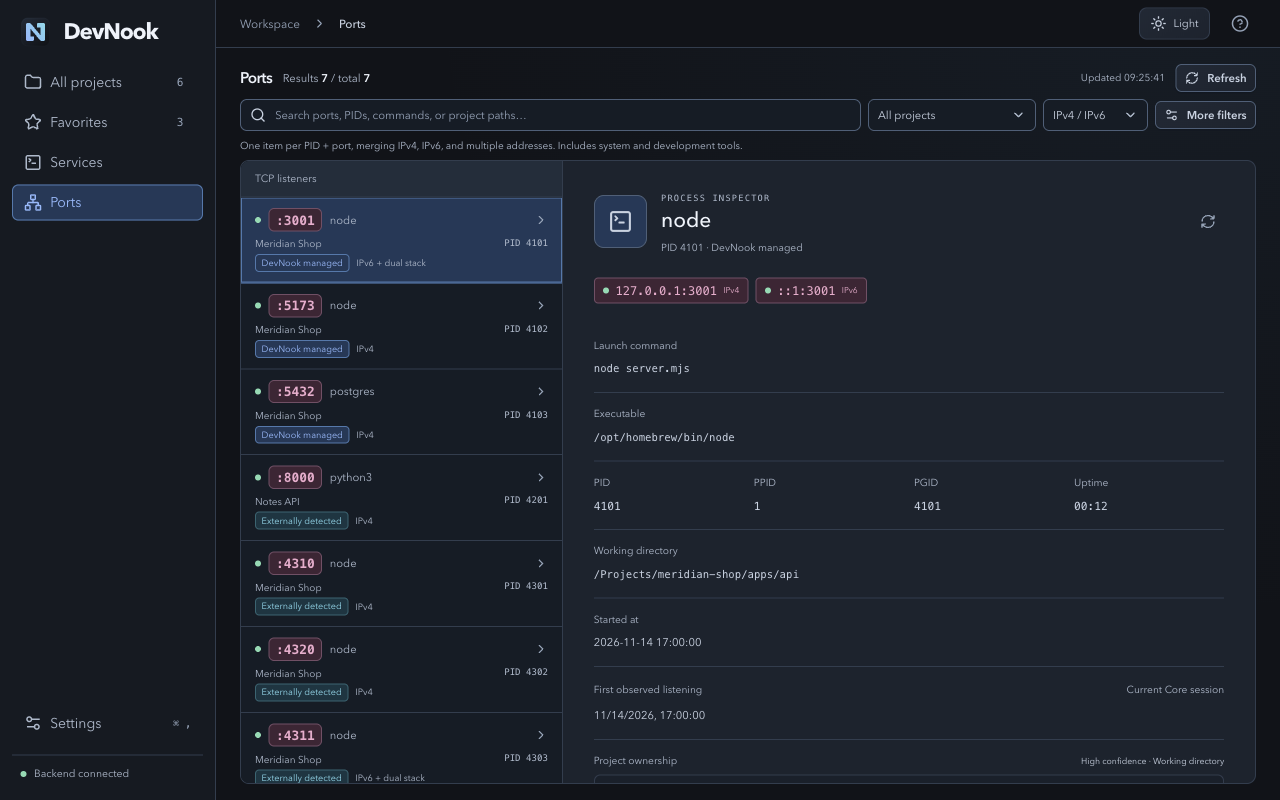
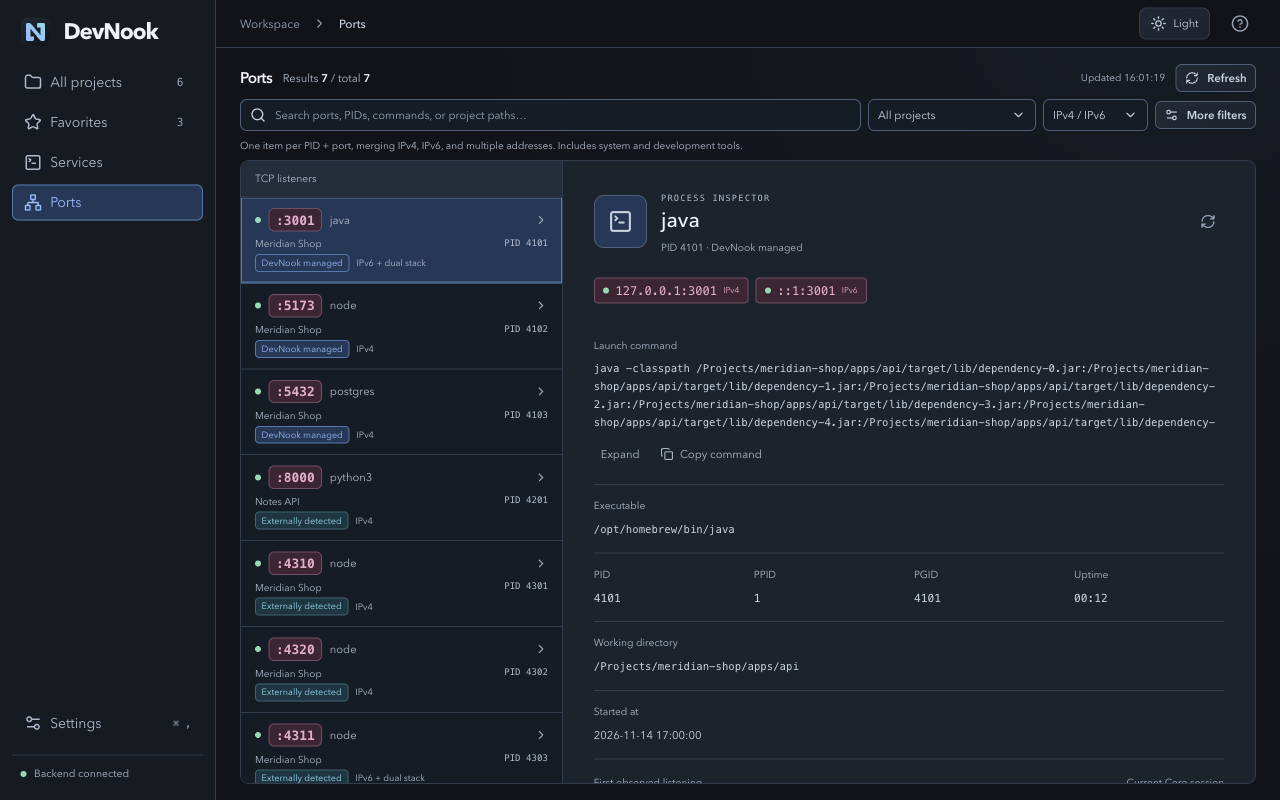
fix: release v0.1.4 with readable process commands

diff --git a/apps/desktop/src/ProcessCommand.tsx b/apps/desktop/src/ProcessCommand.tsx
@@ -1,0 +1,79 @@
+import { useId, useLayoutEffect, useRef, useState } from 'react';
+import { Copy } from 'lucide-react';
+import { t } from './i18n';
+
+export default function ProcessCommand({
+  command,
+  notify,
+  report,
+}: {
+  command: string;
+  notify: (message: string) => void;
+  report: (error: unknown) => void;
+}) {
+  const id = useId();
+  const previewRef = useRef<HTMLDivElement>(null);
+  const codeRef = useRef<HTMLElement>(null);
+  const [expanded, setExpanded] = useState(false);
+  const [overflows, setOverflows] = useState(false);
+
+  useLayoutEffect(() => {
+    const code = codeRef.current;
+    if (!code) return;
+    const measure = () => {
+      const lineHeight = parseFloat(getComputedStyle(code).lineHeight);
+      setOverflows(code.scrollHeight > lineHeight * 4 + 1);
+    };
+    measure();
+    const observer = new ResizeObserver(measure);
+    observer.observe(code);
+    return () => observer.disconnect();
+  }, [command]);
+
+  return (
+    <div className="process-command">
+      <div
+        ref={previewRef}
+        id={id}
+        className={`process-command-preview${expanded && overflows ? ' expanded' : ''}`}
+        tabIndex={expanded && overflows ? 0 : undefined}
+        role="region"
+        aria-label={t('启动命令')}
+      >
+        <code ref={codeRef}>{command}</code>
+      </div>
+      <div className="process-command-actions">
+        {overflows && (
+          <button
+            type="button"
+            className="text-button"
+            aria-expanded={expanded}
+            aria-controls={id}
+            onClick={() => {
+              if (previewRef.current) previewRef.current.scrollTop = 0;
+              setExpanded((value) => !value);
+            }}
+          >
+            {expanded ? t('收起') : t('展开')}
+          </button>
+        )}
+        <button
+          type="button"
+          className="text-button"
+          onClick={async () => {
+            try {
+              if (!navigator.clipboard) throw new Error(t('无法访问剪贴板，请手动选择文字复制。'));
+              await navigator.clipboard.writeText(command);
+              notify(t('命令已复制'));
+            } catch (error) {
+              report(error);
+            }
+          }}
+        >
+          <Copy size={13} aria-hidden="true" />
+          {t('复制命令')}
+        </button>
+      </div>
+    </div>
+  );
+}

diff --git a/apps/desktop/src/App.tsx b/apps/desktop/src/App.tsx
@@ -41,6 +41,7 @@ import WorkspacesPage from './WorkspacesPage';
 import AdvancedIntegrations from './AgentsPage';
 import Select from './Select';
 import { filterPortBindings, portRows, runtimeOptions } from './PortPresentation';
+import ProcessCommand from './ProcessCommand';
 import CategoryPicker from './CategoryPicker';
 import { ProjectBatchBar, ProjectCheckbox } from './ProjectSelection';
 import { useProjectPresentation } from './ProjectPresentation';
@@ -1678,7 +1679,6 @@ function PortsPage({
                 key={`${p.pid}:${p.port}`}
                 className={`port-row ${selected === p.pid ? 'selected' : ''}`}
                 data-color={projectColor(p.project_id)}
-                title={p.command || p.name}
                 onClick={() => void choose(p.pid)}
               >
                 <div className="port-number">
@@ -1779,7 +1779,12 @@ function PortsPage({
                 <div>
                   <dt>{t('启动命令')}</dt>
                   <dd>
-                    <code>{detail.command}</code>
+                    <ProcessCommand
+                      key={detail.fingerprint}
+                      command={detail.command}
+                      notify={notify}
+                      report={report}
+                    />
                   </dd>
                 </div>
                 <div>
@@ -2203,7 +2208,7 @@ function SettingsPage({
         />
         <div>
           <strong>
-            DevNook <span>v0.1.3</span>
+            DevNook <span>v0.1.4</span>
           </strong>
           <p>Your Local Development Workspace</p>
           <p>{t('管理本地项目、服务和端口，支持终端命令与可选的 AI 助手接入。')}</p>

diff --git a/apps/desktop/src/styles.css b/apps/desktop/src/styles.css
@@ -60,6 +60,7 @@ select:focus-visible {
 .service-list:focus-visible,
 .service-log:focus-visible,
 .process-panel:focus-visible,
+.process-command-preview:focus-visible,
 .project-results:focus-visible,
 .port-row:focus-visible {
   outline: 2px solid var(--accent);
@@ -2397,6 +2398,30 @@ main.workbench-page {
 }
 .process-fields dd > code {
   font-size: 0.76rem;
+}
+.process-command-preview {
+  font-size: 0.76rem;
+  line-height: 1.7;
+  max-height: 6.8em;
+  overflow: hidden;
+}
+.process-command-preview.expanded {
+  max-height: min(24rem, 50vh);
+  overflow-y: auto;
+  overscroll-behavior-y: contain;
+}
+.process-command-preview code {
+  display: block;
+  font-size: inherit;
+  line-height: inherit;
+  white-space: pre-wrap;
+  overflow-wrap: anywhere;
+}
+.process-command-actions {
+  display: flex;
+  flex-wrap: wrap;
+  gap: 0.5rem;
+  margin-top: 0.5rem;
 }
 .process-numbers {
   display: grid;

diff --git a/apps/desktop/src/locales/en.ts b/apps/desktop/src/locales/en.ts
@@ -306,6 +306,8 @@ export const english: Record<string, string> = {
   未知进程默认只读: 'Unknown processes are read-only by default',
   刷新进程详情: 'Refresh process details',
   启动命令: 'Launch command',
+  复制命令: 'Copy command',
+  命令已复制: 'Command copied',
   不可访问: 'Unavailable',
   运行时长: 'Uptime',
   工作目录: 'Working directory',

diff --git a/docs/DEVELOPMENT-PLAN.md b/docs/DEVELOPMENT-PLAN.md
@@ -1313,3 +1313,27 @@ Phase 0–2 历史记录保留。当前范围与使用方法见 [PHASE-3.md](PHA
 - v0.1.3 为公开 latest，旧 v0.1.0–v0.1.2 的 3 个 Release 和 12 个原始资产保持。公开下载验证副本核对文件集合后移入系统废纸篓，固定输出目录保留最新双架构 app / DMG / 校验文件；有 lsof 引用的 Debug / current / latest 应用保留，没有自动终止进程。
 - 本轮 web-ui 与 site-preview 均已通过 localhost 正常停止。发布结束前再次核对 Core PID 66122、两份配置版本、当前运行 / 历史及服务 / runner 指纹与发布前一致；未修改 MCP 配置或创建授权。浏览器 TaskSpace 已正常结束；Ego Lite 提示可更新，本轮未升级。
 - 安装包仍为 ad-hoc、未公证；原生窗口 / 菜单交互、Intel / macOS 12 真机未补测。HTTP、浏览器、签名、DMG 与公开资产验证记录保留于 `.tmp/release-v0.1.3-20261116/`，产品不依赖临时目录。三份既有开发故事 / 缘起文档及其记录继续留在本地，本轮未纳入提交。
+
+## 端口悬浮提示与长命令阅读修正（2026-11-16）
+
+- 移除端口列表整行绑定完整启动命令的原生 `title`，避免悬停端口号时被 Java classpath 等长内容遮挡。右侧启动命令使用独立 `ProcessCommand` 展示，默认最多四行；仅实际溢出时提供展开 / 收起。展开区最多 24rem 或半个视口高度，内部滚动并支持键盘焦点；收起回到命令开头，切换进程恢复折叠，窗口缩放重新判断是否溢出。
+- 复制始终使用完整原始命令，保留换行和字面文本，成功沿用全局提示；剪贴板不可用或写入失败沿用错误反馈。新增中英复制文案，沿用字体、语义主题色和焦点样式，没有依赖、Core、协议、数据库或服务控制改动。
+- 实际验证：`pnpm check`、`pnpm test:ui`（38 项）、`pnpm build`、`pnpm format:check`、`git diff --check` 通过。ego-browser 使用真实 React 与隔离内存替身，完成中英 × 浅暗 × 1280×800 / 760×560 共 8 个场景；9,466 字符 Java 命令的默认高度约 72.35px（四行），展开高度分别为 336 / 280px。确认列表无命令 title、复制内容完整、展开 / 收起与键盘操作、收起后滚动归零、短命令无展开入口、切换进程重置，均无整页或命令区域横向溢出及浏览器运行错误；已回读浅暗实际截图。
+- 额外验证剪贴板缺失 / 拒绝写入的错误反馈、760 / 1600 宽度间的溢出判断更新、无断点长字符串、多行及含 `<script>` 字面的命令展示与完整复制。浏览器验收过程的 fixture 注入、匹配条件和尺寸测试数据经回读实际状态后修正，最终 8 场景和边界验收均通过；产品未加入演示数据。详细脚本、截图与结果位于忽略目录 `.tmp/port-command-20261116/`，不作为运行依赖。
+- 浏览器 TaskSpace 已正常结束，本轮临时 web-ui 已通过 localhost 停止。未连接真实 Core 或操作用户项目 / 服务，保留原有开发记录与未跟踪草稿。未重打包或安装原生应用，macOS WebView 未实测；Rust 代码未改，未重跑 Rust 套件。Ego Lite 提示有可用更新，本轮未升级。未提交、推送或发布。
+
+## 长命令修正的本地桌面包（2026-11-16）
+
+- 按用户要求重新打包并打开。`pnpm tauri build --debug --no-bundle` 成功，包含 TypeScript / Vite 及 Rust 原生重建；因之前清理过缓存，本次重新生成必要的 Rust 编译缓存。现有 `target/debug` GUI 及 `target/current` Core / runner 仍在运行，未覆盖其应用包。新包使用固定 `target/preview/debug/bundle/macos/DevNook.app`，通过 `CARGO_TARGET_DIR=target/preview APPLE_SIGNING_IDENTITY=- pnpm tauri bundle --debug --bundles app` 打包，未改动构建配置或版本号。
[1 lines of base64/hex data omitted]
+- 系统 `open -n` 已打开新包，确认 GUI PID 59451 来自 preview 路径；原生辅助功能只读确认该进程可见且存在 DevNook 窗口。未自动切换页面或操作真实服务，端口悬停、命令展开 / 收起与复制留给用户实际查看，不据启动结果声称原生交互已经验收。Core PID 66122、runner PID 74688 和原 Debug GUI PID 87083 的启动时间与路径保持；有运行引用的旧包保留，未终止任何进程。
+- 详细包信息位于忽略目录 `.tmp/port-command-build-20261116/package.json`。本轮仅本机 Debug 验收包，不生成 DMG、不修改公开发布清单、不提交或推送；原生 WebView 交互、Intel / 旧 macOS 未补测。
+
+## v0.1.4 长命令交互发行准备（2026-11-16）
+
+- 用户授权提交 / 推送代码、更新官网及安装包。沿用 main，新增 v0.1.4，同步 workspace、Cargo.lock 三个本地包、前端 package.json、Tauri 与关于页版本；没有升级依赖或修改 CI / 部署配置。三份既有开发故事 / 缘起草稿及其开发记录、本地空间清理记录保留在工作区，不纳入本轮提交。
+- 官网沿用既有布局，增加中英长命令交互说明，更新四张端口页浅暗演示截图及其替代文本；同步中英 README、DESIGN 与双语发布说明。全部新截图来自真实 React 与虚构工程的内存替身，未连接真实 Core。
+- `pnpm check`、`pnpm format:check`、`pnpm test:ui`（38 项）、`pnpm build`、`cargo fmt --all -- --check`、`cargo check --workspace --locked` 与 `git diff --check` 通过。Apple Silicon 与 x86_64 / Rosetta 的 Release workspace 各 97 项通过、5 个既有 fixture 忽略，均使用 Apple Python 3.9.6，未改变测试或产品期限。
[1 lines of base64/hex data omitted]
+- `pnpm site:build` / `pnpm site:check` 的 8 项发布清单测试及 72 个本地链接 / 资源检查通过。官网中英 × 浅暗 × 375 / 768 / 1440 共 12 个布局无整页横向溢出、损坏图片或浏览器错误；四张新端口图的语言、主题、Java 进程、四行命令与展开 / 复制入口匹配，复制内容完整。已回读应用与官网的实际截图。
+- 已记录真实 Core PID 66122、两份服务配置版本、运行 / 历史与 runner / 服务身份；未停止或重启。构建前核对两份旧 Release bundle 无 lsof 引用且 DMG 匹配旧公开清单，再暂存以备回退；正在运行的 Debug / current / preview 包未覆盖。原生 WebView 交互、菜单栏、Intel / macOS 12 真机未重新验收；安装包仍为 ad-hoc、未公证。详细验证位于忽略目录 `.tmp/release-v0.1.4-20261116/`。

diff --git a/docs/releases/v0.1.4.md b/docs/releases/v0.1.4.md
@@ -1,0 +1,65 @@
+# DevNook v0.1.4
+
+修复端口悬浮提示遮挡页面的问题，并改善长启动命令的阅读与复制。
+
+## 更新内容
+
+- 移除端口列表整行的完整命令悬浮提示，Java classpath 等长参数不会在鼠标经过时铺满页面。
+- 右侧启动命令默认最多显示四行；长命令支持展开、收起和区域内滚动，短命令不显示展开按钮。
+- 复制始终取得完整命令，保留换行；成功和剪贴板失败均有反馈。
+- 收起后回到命令开头，切换进程恢复折叠；窗口缩放会重新判断是否需要展开。
+- 中英文官网补充说明，并更新四张浅暗主题端口页演示截图。截图只使用隔离演示数据。
+
+## 安装与升级
+
+macOS 12+，按芯片选择 Apple Silicon 或 Intel Mac DMG。正常退出旧 GUI 后，将新应用拖入 Applications，避免覆盖仍在运行的应用。退出 GUI 不会停止已经运行的服务。
+
+本次沿用 UDS v10 与 SQLite v3，不修改 Core 服务控制、授权或持久化逻辑，不自动退出旧 Core 或停止服务。
+
+两个安装包均为 **ad-hoc 签名，未完成 Developer ID 签名或 Apple 公证**。核对来源及 SHA-256；首次打开若被 macOS 阻止，请参阅 [Apple 的应用安全打开说明](https://support.apple.com/en-us/102445)。
+
+## English
+
+This release fixes oversized command tooltips in the port list and makes long launch commands easier to read and copy.
+
+- Hovering a port no longer displays the full process command over the page.
+- Commands in process details show up to four lines by default. Long commands can expand, collapse, and scroll within a bounded area; short commands need no expand button.
+- Copy preserves the entire command and its line breaks, with feedback for success or clipboard failure.
+- Collapsing returns to the command's beginning. Selecting another process resets the preview, and resizing updates whether expansion is needed.
+- The bilingual website includes updated descriptions and four light / dark port screenshots using isolated demo data.
+
+Choose the DMG for your Mac, quit the old GUI normally, and drag the new app into Applications. UDS v10, SQLite v3, Core service control, authorization, and persistence are unchanged. Existing Core and service processes are not terminated by this update.
+
+Both installers require macOS 12+ and are **ad-hoc signed without Developer ID signing or Apple notarization**. Verify the source and checksum before following [Apple's guidance](https://support.apple.com/en-us/102445).
+
+## 下载与校验 / Downloads and checksums
+
+| 架构 / Architecture | DMG                         | 字节 / Bytes |
+| ------------------- | --------------------------- | -----------: |
+| Apple Silicon       | `DevNook_0.1.4_aarch64.dmg` |    4,874,700 |
+| Intel Mac           | `DevNook_0.1.4_x64.dmg`     |    5,388,036 |
+
+将 DMG 与对应校验文件放在同一目录。Download the DMG and matching checksum file into the same directory.
+
+```sh
+# Apple Silicon
+shasum -a 256 -c SHA256SUMS
+# Intel Mac
+shasum -a 256 -c SHA256SUMS-x86_64
+```
+
+```text
+921ffd056ffe46fca1d71c54eb7bba10126f48f7e3167f2a1f2159c5f0907b40  DevNook_0.1.4_aarch64.dmg
+7e8a89b8c61de23458d5581199adf8597b4b9d6ec26d532260fac0013272bf6f  DevNook_0.1.4_x64.dmg
+```
+
+## 验证范围 / Validation scope
+
+- 38 项前端测试通过；长命令交互通过中英、浅暗与两种窗口尺寸共 8 个隔离浏览器场景，并检查剪贴板失败、多行 / 长字符串和窗口缩放。
+- Apple Silicon 与 x86_64 / Rosetta 的 Release workspace 各 97 项测试通过，5 个既有内部 fixture 忽略。两种构建使用 Apple Python 3.9.6，未放宽测试或产品就绪期限。
+- 官网中英、浅暗及 375 / 768 / 1440 宽度共 12 个布局通过，四张新演示图均已回读。
+- 双架构 DMG 均通过版本、架构、最低系统、签名完整性、镜像完整性、Applications 链接与只读挂载逐文件一致性检查。
+- 38 UI tests passed; command interactions were checked in 8 isolated browser scenarios, with additional clipboard, multiline, long-string, and resize checks. Both Release workspaces passed 97 tests, with 5 existing internal fixtures ignored. The website passed 12 responsive layouts.
+- Both disk images passed version, architecture, minimum-system, signature-integrity, image-integrity, Applications-link, and mounted-content checks. Native WebView interactions, native menu behavior, Intel hardware, and macOS 12 devices were not revalidated in this release.
+
+使用说明 / Guides: [中文](https://github.com/Acorn2/devnook/blob/main/docs/USAGE.md) · [English](https://github.com/Acorn2/devnook/blob/main/README.en.md) · [CLI / MCP](https://github.com/Acorn2/devnook/blob/main/docs/PHASE-3.md)

diff --git a/docs/RELEASING.md b/docs/RELEASING.md
@@ -21,7 +21,7 @@ Apple Silicon 本机默认构建的固定输出：
 
 ```text
 target/release/bundle/macos/DevNook.app
-target/release/bundle/dmg/DevNook_0.1.3_aarch64.dmg
+target/release/bundle/dmg/DevNook_0.1.4_aarch64.dmg
 target/release/bundle/dmg/SHA256SUMS
 ```
 
@@ -38,14 +38,14 @@ APPLE_SIGNING_IDENTITY=- CI=true pnpm tauri bundle --target x86_64-apple-darwin 
 node scripts/record-release.mjs --target x86_64-apple-darwin
 ```
 
-固定输出为 `target/x86_64-apple-darwin/release/bundle/` 下的 `macos/DevNook.app`、`dmg/DevNook_0.1.3_x64.dmg` 与 `dmg/SHA256SUMS-x86_64`。Rust target / 清单架构使用 `x86_64`，DMG 文件名沿用 Tauri 的 `x64`。显式 `--target aarch64-apple-darwin` 同样使用独立 target 目录；不指定 target 则从本机架构和默认 `target/release/` 登记。
+固定输出为 `target/x86_64-apple-darwin/release/bundle/` 下的 `macos/DevNook.app`、`dmg/DevNook_0.1.4_x64.dmg` 与 `dmg/SHA256SUMS-x86_64`。Rust target / 清单架构使用 `x86_64`，DMG 文件名沿用 Tauri 的 `x64`。显式 `--target aarch64-apple-darwin` 同样使用独立 target 目录；不指定 target 则从本机架构和默认 `target/release/` 登记。
 
 ## 校验
 
 ```sh
 sh scripts/rust-local.sh cargo test --release --workspace --locked
 codesign --verify --strict --deep target/release/bundle/macos/DevNook.app
-hdiutil verify target/release/bundle/dmg/DevNook_0.1.3_aarch64.dmg
+hdiutil verify target/release/bundle/dmg/DevNook_0.1.4_aarch64.dmg
 cd target/release/bundle/dmg
 shasum -a 256 -c SHA256SUMS
 ```
@@ -62,9 +62,9 @@ Intel 测试使用 `cargo test --release --workspace --target x86_64-apple-darwi
 
 ## 发布到 GitHub Releases
 
-1. 确定版本号，并为对应源码创建版本标签，例如 `v0.1.3`。
+1. 确定版本号，并为对应源码创建版本标签，例如 `v0.1.4`。
 2. 完成该版本的构建、测试和签名状态核对。
-3. 上传相应架构的 DMG 与校验文件：Apple Silicon 使用 `DevNook_0.1.3_aarch64.dmg` / `SHA256SUMS`，Intel 使用 `DevNook_0.1.3_x64.dmg` / `SHA256SUMS-x86_64`。发布说明如实写明目标架构、系统要求和公证状态；同源版本追加新架构时保留既有资产，业务代码变化需使用新版本。
+3. 上传相应架构的 DMG 与校验文件：Apple Silicon 使用 `DevNook_0.1.4_aarch64.dmg` / `SHA256SUMS`，Intel 使用 `DevNook_0.1.4_x64.dmg` / `SHA256SUMS-x86_64`。发布说明如实写明目标架构、系统要求和公证状态；同源版本追加新架构时保留既有资产，业务代码变化需使用新版本。
 4. 从公开资产重新核对文件大小及 SHA-256；确认可下载后，再更新官网发布清单。
 
 `site/release.json` 包含共同 `version` 和逐架构 `builds`。公开下载字段应合并到对应架构的 build，例如 aarch64：
@@ -72,7 +72,7 @@ Intel 测试使用 `cargo test --release --workspace --target x86_64-apple-darwi
 ```json
 {
   "published": true,
-  "url": "https://github.com/Acorn2/devnook/releases/download/v0.1.3/DevNook_0.1.3_aarch64.dmg"
+  "url": "https://github.com/Acorn2/devnook/releases/download/v0.1.4/DevNook_0.1.4_aarch64.dmg"
 }
 ```
 

diff --git a/README.en.md b/README.en.md
@@ -89,6 +89,8 @@ Service details include “Let AI continue managing this service” to copy its 
 
 Search ports, PIDs, commands, or paths. Inspect the process command, executable, working directory, start time, and project association. Combine filters for project, address family, runtime, launch source, and more.
 
+Long commands show four lines by default, with expand, collapse, and full-command copy. Hovering a port no longer opens the entire launch command.
+
 ![Port inspection with actual listening addresses, process command, working directory, and project association](site/assets/ports-dark-en.png)
 
 TCP IPv4 / IPv6 and multiple addresses are grouped. Managed services and external listeners remain distinct. **No detected listener does not mean a project has stopped.** Processes with unknown identity or unverifiable ownership remain read-only. External stops require identity checks and PID confirmation.

diff --git a/README.md b/README.md
@@ -89,6 +89,8 @@
 
 在端口管理中搜索端口、PID、命令或路径，查看进程命令、可执行文件、工作目录、启动时间与项目归属。项目、地址族、运行时和启动来源等筛选可以组合使用。
 
+长命令默认显示四行，可展开、收起并复制完整内容；悬停端口不会弹出整段启动命令。
+
 ![端口排查：实际监听地址、进程命令、工作目录与项目归属](site/assets/ports-dark-zh.png)
 
 TCP IPv4 / IPv6 与多地址会合并展示，托管服务和外部监听保持区分。**未检测到监听不代表项目已停止。** 未知身份或无法核验归属的进程保持只读，外部停止需要核验并输入 PID 确认。
